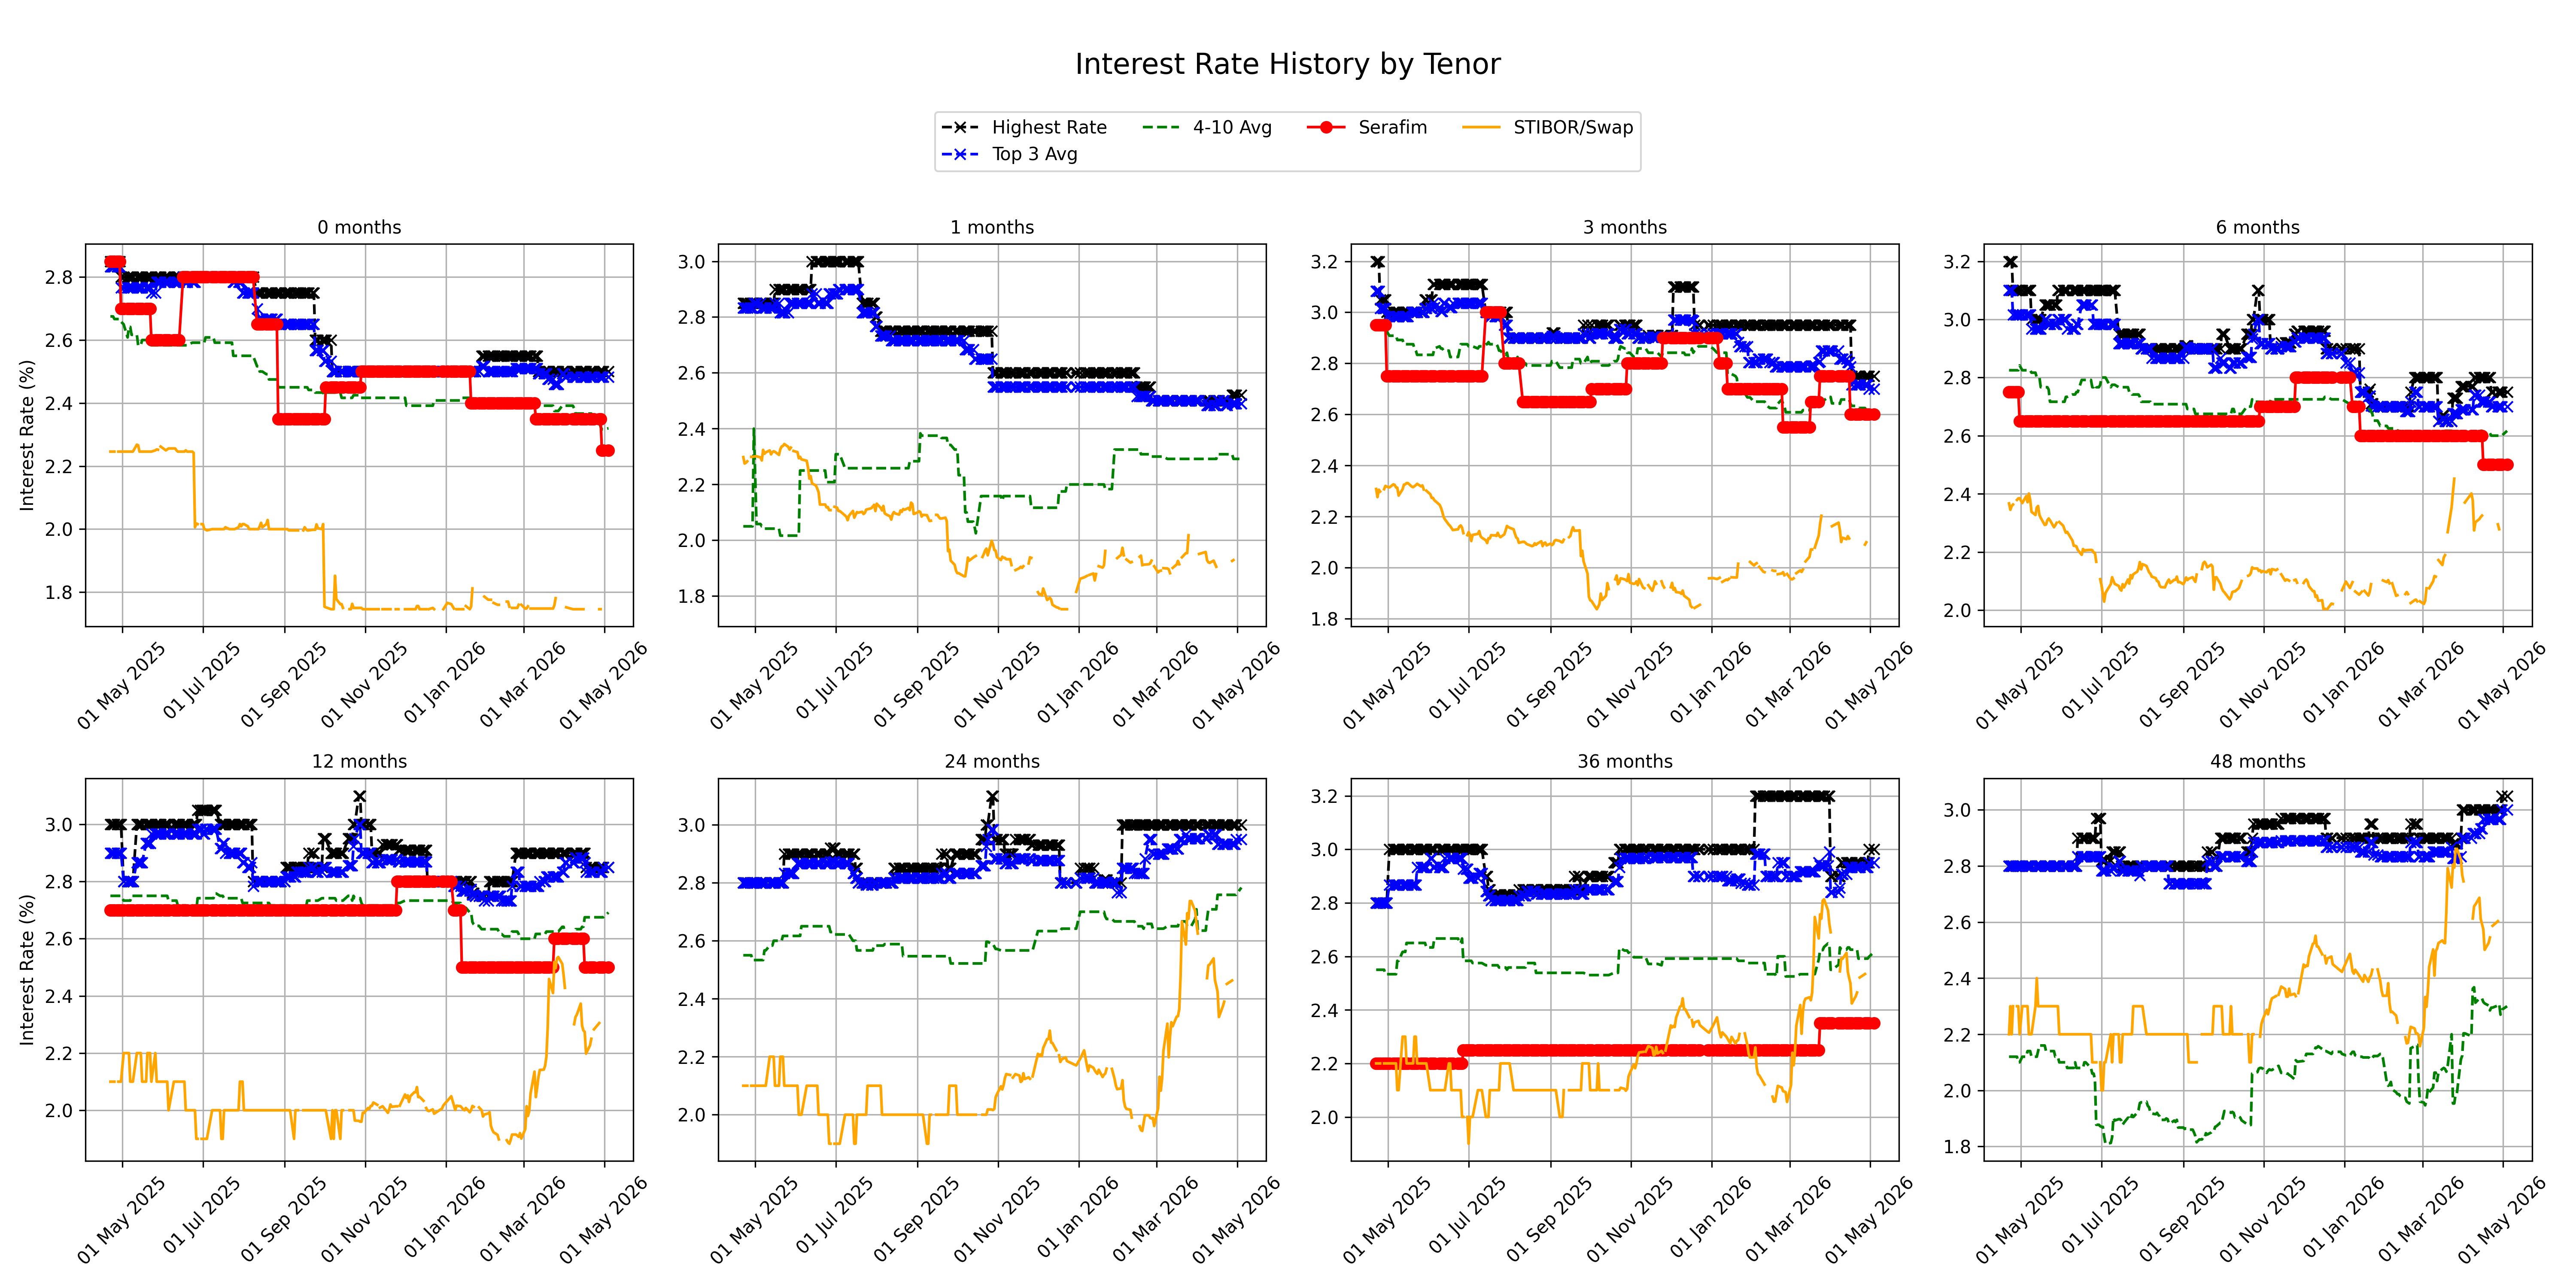
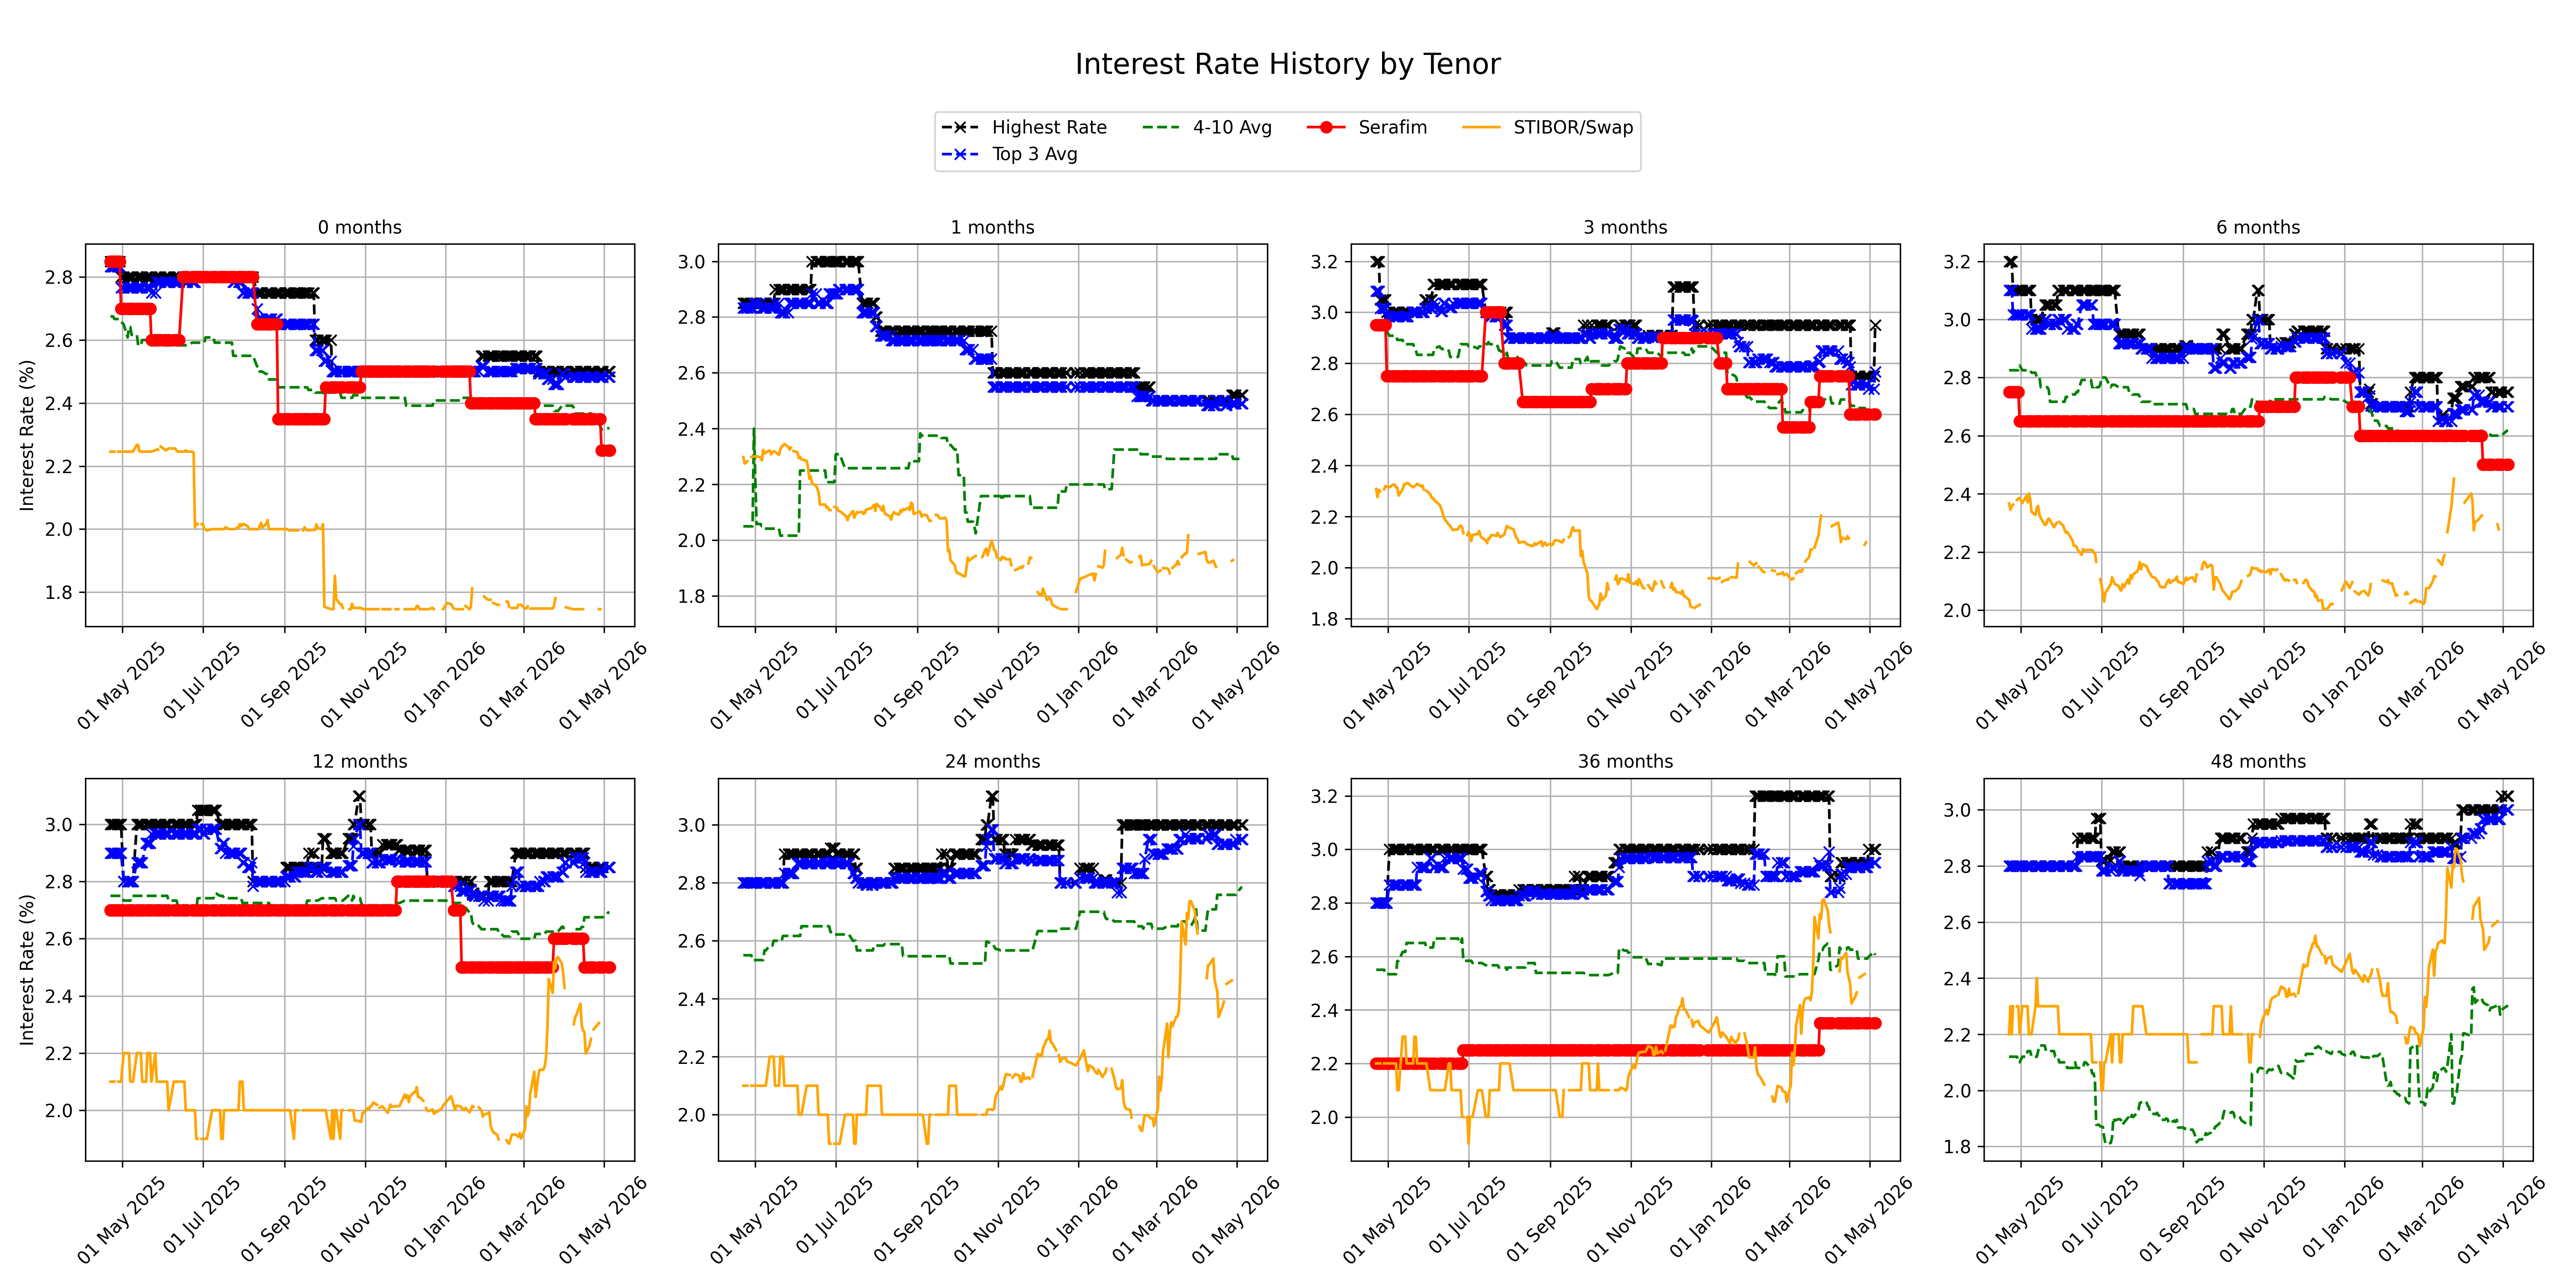
upd

Changed region(s): [[0.7168, 0.248, 0.748, 0.31], [0.2182, 0.651, 0.2493, 0.682]]

diff --git a/Serafim/index.html b/Serafim/index.html
@@ -81,7 +81,7 @@
 
     <h1>Competitor Overview - Serafim</h1>
     <div style="text-align: right; color: #555; font-size: 0.9em;">
-        Updated: 2026-05-04
+        Updated: 2026-05-05
     </div>
     
     <!-- Tab buttons -->
@@ -138,20 +138,6 @@
   </thead>
   <tbody>
     <tr>
-      <th>Froda</th>
-      <td>2.50</td>
-      <td>-</td>
-      <td>2.65</td>
-      <td>2.65</td>
-      <td>-</td>
-      <td>2.35</td>
-      <td>-</td>
-      <td>-</td>
-      <td>-</td>
-      <td>-</td>
-      <td>-</td>
-    </tr>
-    <tr>
       <th>Fedelta</th>
       <td>2.50</td>
       <td>-</td>
@@ -163,6 +149,20 @@
       <td>2.00</td>
       <td>2.00</td>
       <td>2.00</td>
+      <td>-</td>
+    </tr>
+    <tr>
+      <th>Froda</th>
+      <td>2.50</td>
+      <td>-</td>
+      <td>2.65</td>
+      <td>2.65</td>
+      <td>-</td>
+      <td>2.35</td>
+      <td>-</td>
+      <td>-</td>
+      <td>-</td>
+      <td>-</td>
       <td>-</td>
     </tr>
     <tr>
@@ -216,6 +216,20 @@
       <td>-</td>
       <td>-</td>
       <td>-</td>
+      <td>-</td>
+      <td>-</td>
+      <td>-</td>
+      <td>-</td>
+    </tr>
+    <tr>
+      <th>Brixo</th>
+      <td>2.32</td>
+      <td>-</td>
+      <td>2.55</td>
+      <td>2.65</td>
+      <td>-</td>
+      <td>2.75</td>
+      <td>2.85</td>
       <td>-</td>
       <td>-</td>
       <td>-</td>
@@ -348,20 +362,6 @@
       <td>-</td>
     </tr>
     <tr>
-      <th>Avida Finans</th>
-      <td>2.00</td>
-      <td>-</td>
-      <td>-</td>
-      <td>-</td>
-      <td>-</td>
-      <td>-</td>
-      <td>-</td>
-      <td>-</td>
-      <td>-</td>
-      <td>-</td>
-      <td>-</td>
-    </tr>
-    <tr>
       <th>Aros Kapital</th>
       <td>2.00</td>
       <td>-</td>
@@ -369,6 +369,20 @@
       <td>2.55</td>
       <td>-</td>
       <td>2.55</td>
+      <td>-</td>
+      <td>-</td>
+      <td>-</td>
+      <td>-</td>
+      <td>-</td>
+    </tr>
+    <tr>
+      <th>Avida Finans</th>
+      <td>2.00</td>
+      <td>-</td>
+      <td>-</td>
+      <td>-</td>
+      <td>-</td>
+      <td>-</td>
       <td>-</td>
       <td>-</td>
       <td>-</td>
@@ -491,7 +505,7 @@
       <th>Landshypotek Bank</th>
       <td>1.65</td>
       <td>-</td>
-      <td>-</td>
+      <td>2.40</td>
       <td>-</td>
       <td>-</td>
       <td>-</td>
@@ -505,8 +519,8 @@
       <th>JAK Medlemsbank</th>
       <td>1.50</td>
       <td>-</td>
-      <td>2.75</td>
-      <td>1.70</td>
+      <td>2.95 (+0.20)</td>
+      <td>1.95 (+0.25)</td>
       <td>-</td>
       <td>-</td>
       <td>-</td>
@@ -660,13 +674,13 @@
       <td>0.05</td>
       <td>2.15</td>
       <td>1.75</td>
-      <td>1.80 (+0.03)</td>
+      <td>1.80</td>
       <td>-</td>
-      <td>1.98</td>
-      <td>2.35 (+0.10)</td>
-      <td>2.50 (+0.11)</td>
+      <td>1.99 (+0.01)</td>
+      <td>2.29 (-0.06)</td>
+      <td>2.43 (-0.07)</td>
       <td>-</td>
-      <td>2.71 (+0.10)</td>
+      <td>2.64 (-0.07)</td>
       <td>-</td>
     </tr>
     <tr>
@@ -719,10 +733,10 @@
       <td>1.90</td>
       <td>-</td>
       <td>2.05</td>
-      <td>2.09 (+0.08)</td>
-      <td>2.15 (+0.07)</td>
-      <td>2.20 (+0.05)</td>
-      <td>2.00 (+0.06)</td>
+      <td>2.09</td>
+      <td>2.15</td>
+      <td>2.21 (+0.01)</td>
+      <td>2.00</td>
       <td>-</td>
     </tr>
     <tr>
@@ -794,17 +808,31 @@
   </thead>
   <tbody>
     <tr>
+      <th>JAK Medlemsbank</th>
+      <td>1.50</td>
+      <td>-</td>
+      <td>2.95 (+0.20)</td>
+      <td>1.95 (+0.25)</td>
+      <td>-</td>
+      <td>-</td>
+      <td>-</td>
+      <td>-</td>
+      <td>-</td>
+      <td>-</td>
+      <td>-</td>
+    </tr>
+    <tr>
       <th>Handelsbanken</th>
       <td>0.05</td>
       <td>2.15</td>
       <td>1.75</td>
-      <td>1.80 (+0.03)</td>
+      <td>1.80</td>
       <td>-</td>
-      <td>1.98</td>
-      <td>2.35 (+0.10)</td>
-      <td>2.50 (+0.11)</td>
+      <td>1.99 (+0.01)</td>
+      <td>2.29 (-0.06)</td>
+      <td>2.43 (-0.07)</td>
       <td>-</td>
-      <td>2.71 (+0.10)</td>
+      <td>2.64 (-0.07)</td>
       <td>-</td>
     </tr>
     <tr>
@@ -815,10 +843,10 @@
       <td>1.90</td>
       <td>-</td>
       <td>2.05</td>
-      <td>2.09 (+0.08)</td>
-      <td>2.15 (+0.07)</td>
-      <td>2.20 (+0.05)</td>
-      <td>2.00 (+0.06)</td>
+      <td>2.09</td>
+      <td>2.15</td>
+      <td>2.21 (+0.01)</td>
+      <td>2.00</td>
       <td>-</td>
     </tr>
   </tbody>